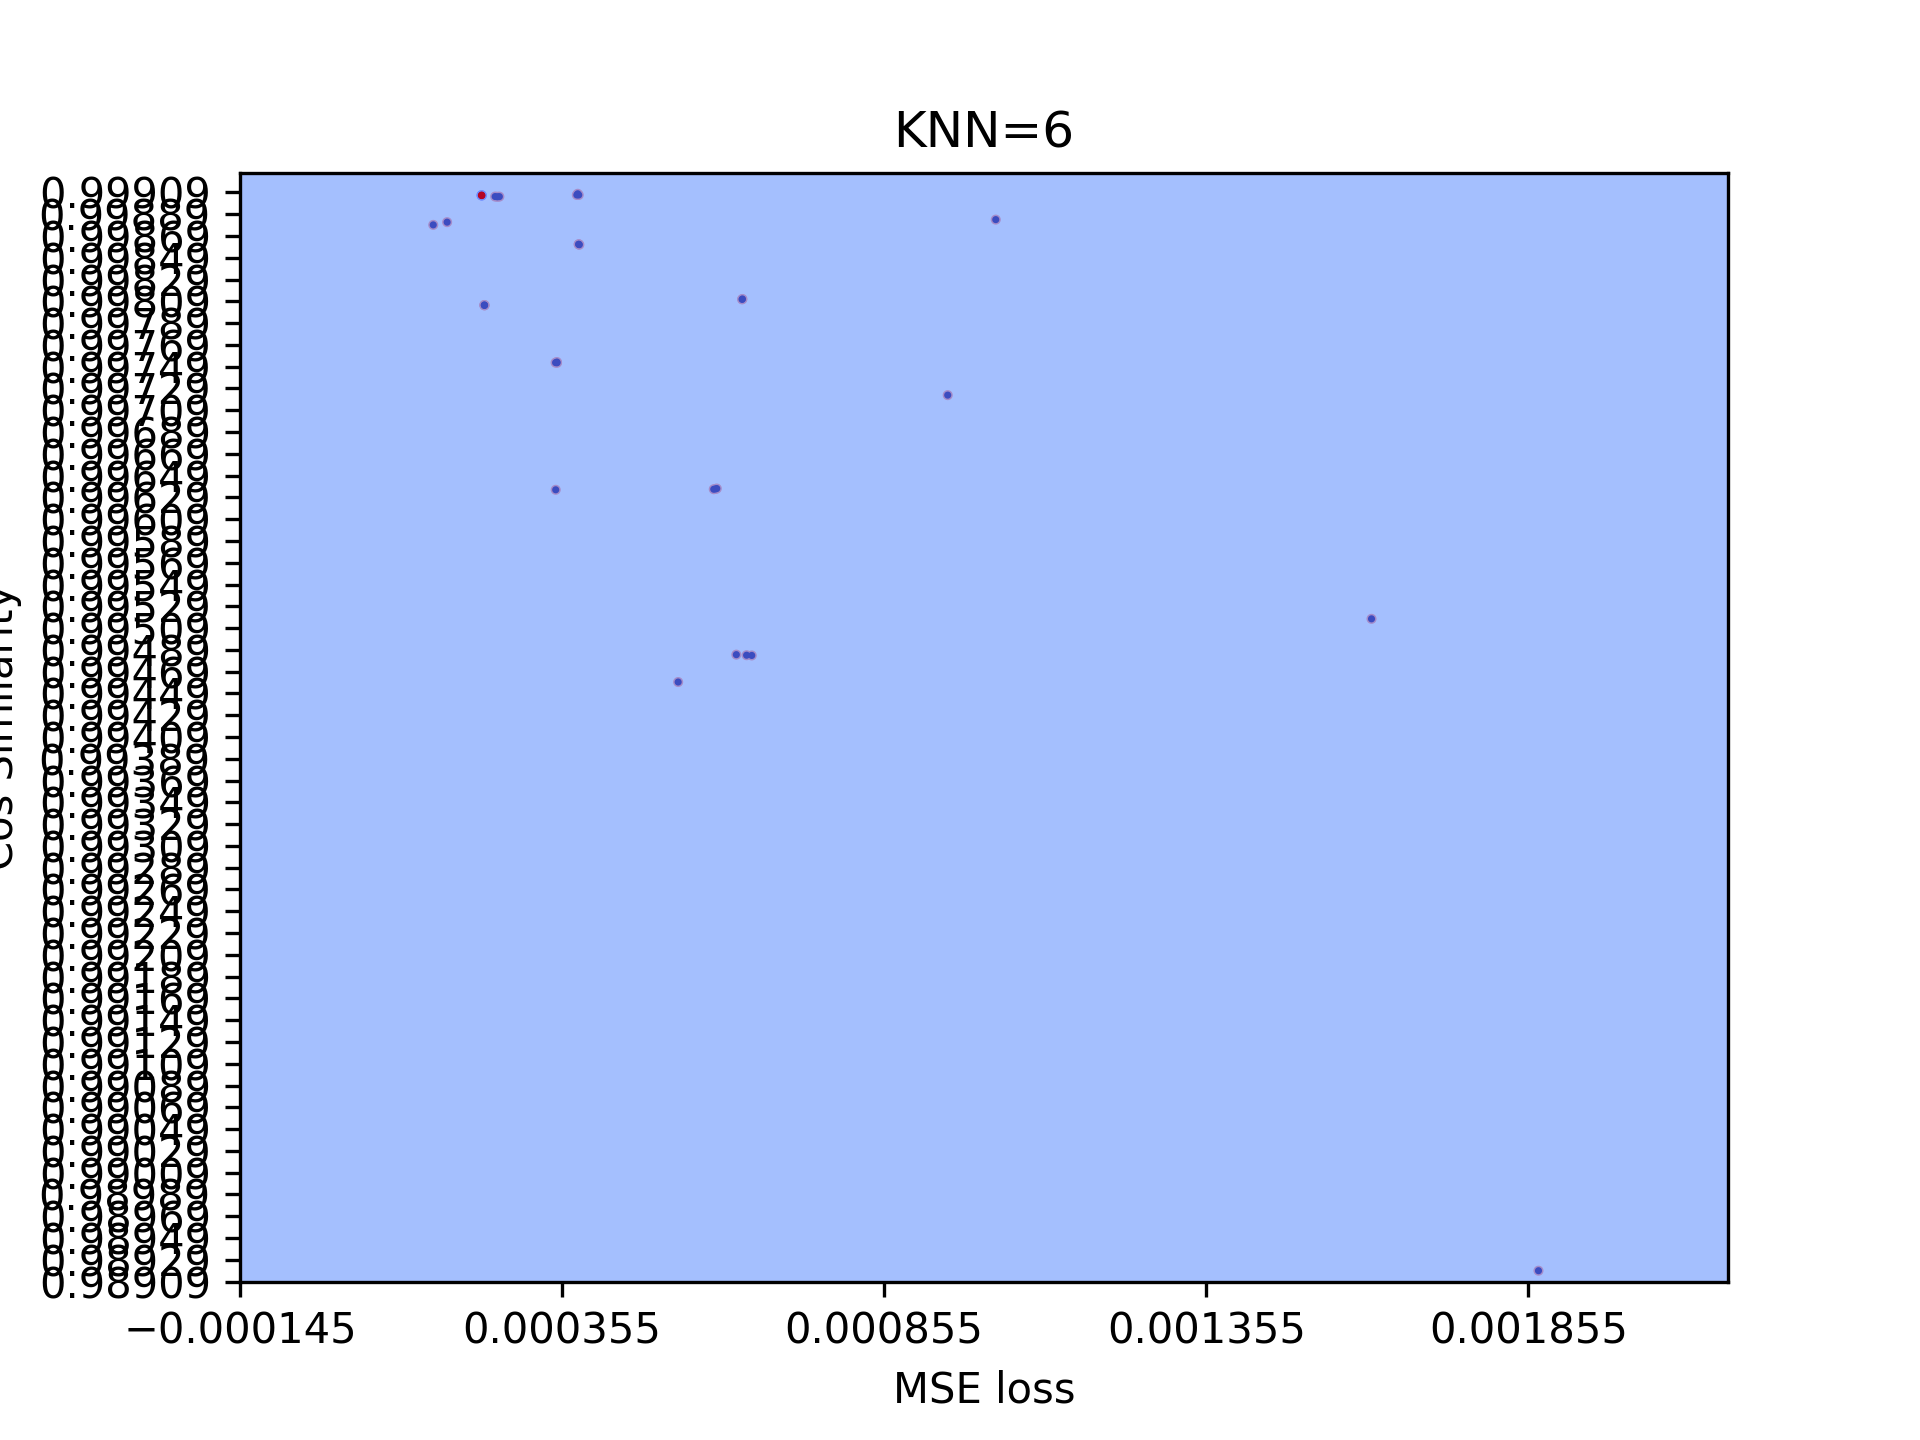
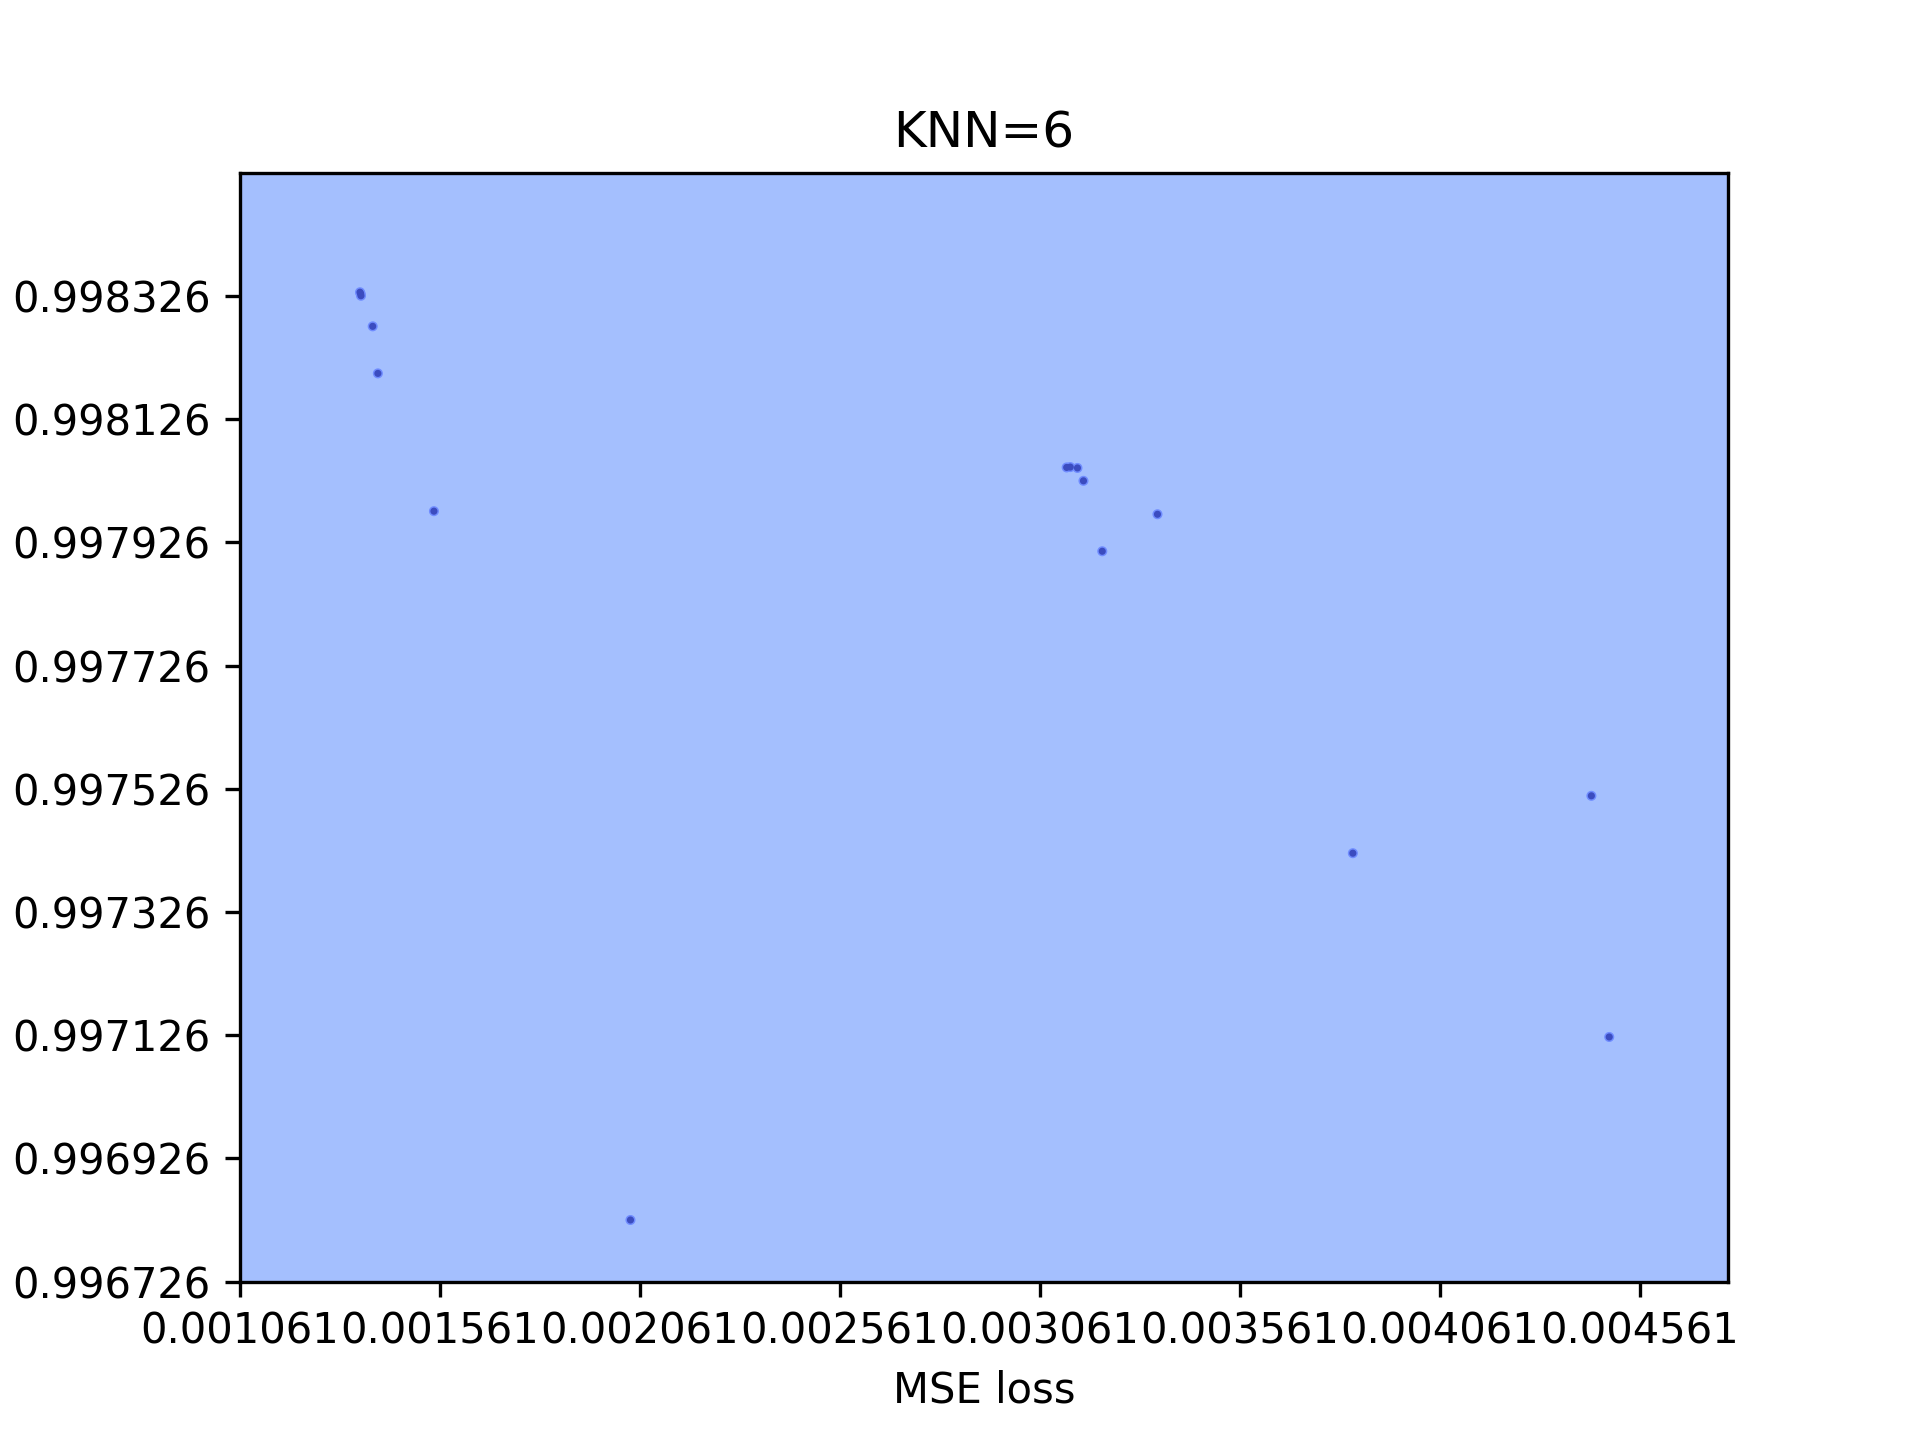
checkin works which were done on alienware laptop.

Changed region(s): [[0.0, 0.125, 0.9062, 0.9375]]

diff --git a/CNN.py b/CNN.py
@@ -20,22 +20,27 @@ from data_preprocessor import *
 from pandas.core.frame import DataFrame
 
 from utility_functions import get_confusion_matrix, total_accuracy, precision_average, plot_roc
+from skimage.metrics import structural_similarity as ssim
 
 img_x = 141
 img_y = 110
 
 def MSE(input,output,label, images):
-    root_dir = "cnned/"
-    i_img_dir ="input/"
-    o_img_dir = "output/"
+    root_dir = "cnned\\"
+    i_img_dir ="input\\"
+    o_img_dir = "output\\"
     mse_list = list()
     cos_list = list()
     color = list()
     for l in label:
-        if l == 'comp':
+        if l == 'I0':
             color.append('b')
-        if l == 'uncomp':
+        if l == 'I1':
             color.append('r')
+        if l == 'I2':
+            color.append('g')
+        if l == 'I3':
+            color.append('y')
     for k in range(input.shape[0]):
         i = input[k]
         i = i.reshape(img_x,img_y)
@@ -51,21 +56,22 @@ def MSE(input,output,label, images):
         nor_o = normalize(o, norm='l2').flatten()
         res = np.array([[nor_i[i] * nor_o[i], nor_i[i] * nor_i[i], nor_o[i] * nor_o[i]] for i in range(len(nor_i))])
         temp = sum(res[:, 0]) / (np.sqrt(sum(res[:, 1])) * np.sqrt(sum(res[:, 2])))
-        mse = mean_squared_error(i,o)
+        mse = mean_squared_error(i , o)
+        #mse = ssim(np.array(i, np.uint8), np.array(o, np.uint8), win_size= 5, data_range=255)
         mse_list.append(mse)
         cos = 0.5 * temp + 0.5
         cos_list.append(cos)
-    df = {'MSE':mse_list,'CosSim':cos_list,'label':label,'color':color, 'image_mname':images}
+    df = {'MSE':mse_list,'CosSim':cos_list,'label':label,'color':color, 'image_name':images}
     data = DataFrame(df)
     colors = {'comp':'b','uncomp':'r'}
 
 
     fig1 = plt.figure()
     axes1 = fig1.add_subplot(1, 1, 1)
-    scatter1 = axes1.scatter(data['MSE'], data['CosSim'], c=data['color'],s=2)
-    axes1.set_title('Two indicator plot of test data')
-    axes1.set_xlabel('Loss')
-    axes1.set_ylabel('Similarity')
+    scatter1 = axes1.scatter(data['MSE']*10000, (data['CosSim']-0.99)*100, c=data['color'],s=2)
+    axes1.set_title('Two indicator plot of data')
+    axes1.set_xlabel('MSE')
+    axes1.set_ylabel('CosSimilarity')
     #axes1.legend(*scatter1.legend_elements(), loc="best", title="label")
     current_time = time.time()
     plt.savefig(str(current_time)+'result.png')
@@ -79,7 +85,8 @@ def load_data(root_path):
     label = list()
     DataMat = list()
     image_list = list()
-    dataset_path = root_path+ '/comp'
+    #dataset_path = root_path+ '/comp'
+    dataset_path = root_path+'/I0'
     file_list = listdir(dataset_path)
     m = len(file_list)
     for i in range(m):
@@ -94,9 +101,26 @@ def load_data(root_path):
         if array.min() == 0 and array.max() == 0:
             continue
         DataMat.append(array)
-        label.append("comp")
+        label.append("I0")
         image_list.append(file_name)
-    dataset_path = root_path+'/uncomp'
+    #dataset_path = root_path+'/uncomp'
+    # dataset_path = root_path + '/I1'
+    #
+    # file_list = listdir(dataset_path)
+    # m = len(file_list)
+    # for i in range(m):
+    #     file_name = file_list[i]
+    #     fileStr = file_name.split('.')[0]
+    #     if fileStr == '':
+    #         continue
+    #     #inverse_LowPass = fft_Gaussian_LowPass_filer(dataset_path, file_name)
+    #     #array = inverse_LowPass.reshape(img_x, img_y)
+    #     inverse_csf = csf_filter(dataset_path, file_name)
+    #     array = inverse_csf.reshape(img_x, img_y)
+    #     DataMat.append(array)
+    #     label.append("I1")
+    #     image_list.append(file_name)
+    dataset_path = root_path + '/I2'
     file_list = listdir(dataset_path)
     m = len(file_list)
     for i in range(m):
@@ -104,18 +128,31 @@ def load_data(root_path):
         fileStr = file_name.split('.')[0]
         if fileStr == '':
             continue
-        #inverse_LowPass = fft_Gaussian_LowPass_filer(dataset_path, file_name)
-        #array = inverse_LowPass.reshape(img_x, img_y)
         inverse_csf = csf_filter(dataset_path, file_name)
         array = inverse_csf.reshape(img_x, img_y)
         DataMat.append(array)
-        label.append("uncomp")
+        label.append("I2")
         image_list.append(file_name)
+
+    dataset_path = root_path + '/I3'
+    file_list = listdir(dataset_path)
+    m = len(file_list)
+    for i in range(m):
+        file_name = file_list[i]
+        fileStr = file_name.split('.')[0]
+        if fileStr == '':
+            continue
+        inverse_csf = csf_filter(dataset_path, file_name)
+        array = inverse_csf.reshape(img_x, img_y)
+        DataMat.append(array)
+        label.append("I3")
+        image_list.append(file_name)
+
     DataArray = np.array(DataMat)
     DataArray = DataArray.reshape(DataArray.shape[0], img_x, img_y, 1)
     DataArray = DataArray.astype('float32')
-    #DataArray /= 255
-    return DataArray,label, image_list
+    DataArray /= 255
+    return DataArray, label, image_list
 
 def find_decision_boundray(mse_data_lst, cos_data_lst, label):
     df = {'MSE':mse_data_lst,'CosSim':cos_data_lst}
@@ -124,9 +161,11 @@ def find_decision_boundray(mse_data_lst, cos_data_lst, label):
     X = data_array
     label_id = []
     for item in label:
-        if item == 'comp':
+        if item == 'I1':
             label_id.append(1)
-        elif item == 'uncomp':
+        elif item == 'I2':
+            label_id.append(2)
+        elif item == 'I0':
             label_id.append(0)
 
     y = np.array(label_id, np.int)
@@ -238,12 +277,11 @@ def Autoncoder(x_train,label, images):
     return mse_data_lst, cos_data_lst
 
 def main():
-    x_train,label, image_lst= load_data("./processed_data")
+    x_train,label, image_lst= load_data("./csf_filtered")
+    #x_train,label, image_lst= load_data("./processed_data")
     mse_data_lst, cos_data_lst = Autoncoder(x_train,label, image_lst)
-    clf = find_decision_boundray(mse_data_lst, cos_data_lst, label)
-    #x_test,test_label, test_image_lst= load_data("./testset")
-    #test_mse_data_lst, test_cos_data_lst = Autoncoder(x_test,test_label, test_image_lst)
-    run_classifier(clf,  mse_data_lst, cos_data_lst, label)
+    #clf = find_decision_boundray(mse_data_lst, cos_data_lst, label)
+    #run_classifier(clf,  mse_data_lst, cos_data_lst, label)
 
 
 if __name__ == '__main__':

diff --git a/img_perprocessor.m b/img_perprocessor.m
@@ -1,28 +1,28 @@
 clear all;
 close all;
 
-%filelst = dir(fullfile('Data/LuminanceData', '*.csv'))
-filelst = dir(fullfile('testset', '*.jpeg'))
+filelst = dir(fullfile('LuminanceData', '*.csv'))
+%filelst = dir(fullfile('testset', '*.jpeg'))
 for i = 1:length(filelst)
-    filename = "testset/" + filelst(i).name;
-    img_data = imread(filename);
+    filename = "LuminanceData\" + filelst(i).name;
+    img_data = csvread(filename);
     %img_data = rgb2gray(img_data);
     [row,col] = size(img_data);
     % Full contrast stretch 
-%     hist_equal_fcs_img = zeros(row,col);
-%     min_r = double(min(img_data(:)));
-%     max_r = double(max(img_data(:)));
-%     stretched = double(img_data-min_r) * double(255) / double(max_r-min_r);
-%     hist_equal_fcs_img = round(stretched);
-%     img_data = uint8(hist_equal_fcs_img);
+     hist_equal_fcs_img = zeros(row,col);
+     min_r = double(min(img_data(:)));
+     max_r = double(max(img_data(:)));
+     stretched = double(img_data-min_r) * double(255) / double(max_r-min_r);
+     hist_equal_fcs_img = round(stretched);
+     img_data = uint8(hist_equal_fcs_img);
     %figure(2);
     %imshow(img_data,[]);
-    %filename = "Data/Processed_data/" + filelst(i).name + ".jpeg"
-    %imwrite(img_data, filename);
+    filename = "processed_data/" + filelst(i).name + ".png"
+    imwrite(img_data, filename);
     res_img = uint8(CSFfilter(img_data));
     figure(3);
     imshow(res_img,[]);
-    filename = "csf_filtered/csfed_" + filelst(i).name;
+    filename = "csf_filtered\csfed_" + filelst(i).name + ".png";
     imwrite(res_img, filename);
     
 end
@@ -43,7 +43,7 @@ HH = row; LL = col;
 % viewing distance d1
 % HH = row/2; LL = col/2;
 % viewing distance d2
-%HH = row/4; LL = col/4; 
+HH = row/4; LL = col/4; 
 % viewing distance d3
 %HH = row/8; LL = col/8;
 u = LL*u; v = HH*v;

diff --git a/imageViwer.m b/imageViwer.m
@@ -1,11 +1,39 @@
 clear all;
 close all;
-filelst = dir(fullfile('processed_data/comp', '*.png'))
+%filelst = dir(fullfile('processed_data/I1', '*.png'))
 
-for i = 1:length(filelst)
-    filename = "processed_data/comp/" + filelst(i).name;
+%for i = 1:length(filelst)
+   % filename = "processed_data/comp/" + filelst(i).name;
+    filename = "cnned\input\" + "r_Pixel2_No4_240_comp_1_g.jpeg";
     i_img_data = imread(filename);
-    figure(i);
-    imshow(i_img_data,[]);
+    figure(1);
+    mesh(i_img_data);
+    filename = "cnned\output\" + "r_Pixel2_No4_240_comp_1_g.jpeg";
+    o_img_data = imread(filename);
+    figure(23);
+    mesh(o_img_data);
     
-end
+    K = [0.03 0.03];
+    window = ones(8);
+    L = 255;
+    [score , ssim_map] = ssim(i_img_data, o_img_data, K, window, L);
+    figure(3);
+    mesh(ssim_map);
+
+    filename = "cnned\input\" + "r_Pixel2_No4_128_comp_1_g.jpeg";
+    i_img_data = imread(filename);
+    figure(4);
+    mesh(i_img_data);
+    filename = "cnned\output\" + "r_Pixel2_No4_128_comp_1_g.jpeg";
+    o_img_data = imread(filename);
+    figure(5);
+    mesh(o_img_data);
+    
+    K = [0.03 0.03];
+    window = ones(8);
+    L = 255;
+    [score , ssim_map] = ssim(i_img_data, o_img_data, K, window, L);
+    figure(6);
+    mesh(ssim_map);
+    
+%end

diff --git a/img_viwer.m b/img_viwer.m
@@ -1,31 +1,13 @@
 clear all;
 close all;
-filelst = dir(fullfile('cnned/input', '*.png'))
-ssim_array = size(length(filelst));
-ssim_index = size(length(filelst));
+filelst = dir(fullfile('processed_data\I1', '*.png'));
 
 for i = 1:length(filelst)
-    filename = "cnned/input/" + filelst(i).name;
+    filename = "processed_data\I1\" + filelst(i).name;
     i_img_data = imread(filename);
-    i_img_data = imresize(i_img_data, [141, 110]);
-    filename = "cnned/output/" + filelst(i).name;
-    o_img_data = imread(filename);
-    o_img_data = imresize(o_img_data, [141, 110]);
-    figure(1);
-    mesh(i_img_data);
-    figure(2);
-    mesh(o_img_data);
 
-    K = [0.03 0.03];
-    window = ones(10);
-    L = 100;
-    [score , ssim_map] = ssim(i_img_data, o_img_data, K, window, L);
-    %figure(i);
-    imshow(ssim_map,[]);
-    ssim_array(i) = score; 
-    ssim_index(i) = i;
+    figure(i);
+    imshow(i_img_data,[]);
     
 end
 
-figure(4);
-plot(ssim_array);

diff --git a/data_preprocessor.py b/data_preprocessor.py
@@ -158,11 +158,13 @@ def csf_filter(dataset_path, file_name):
     #return img
     row = 141
     col = 110
+    row = img.shape[1]
+    col = img.shape[0]
     feq_0 = np.linspace(-1.0, 1.0, num=row, dtype=float )
     feq_1 = np.linspace(-1.0, 1.0, num=col, dtype=float)
     u, v = np.meshgrid(feq_0, feq_1)
-    #u = 0.125 * u
-    #v = 0.125 * v
+    u = 0.125 * u
+    v = 0.125 * v
     r = u**2+v**2
     r = np.sqrt(r)
     theta_g = np.exp(-(r/f_0)**2) - a * np.exp(-(r/f_1)**2);
@@ -173,6 +175,8 @@ def csf_filter(dataset_path, file_name):
     inverse_csf_filtered = np.fft.ifft2(csf_filtered)
     i = Image.fromarray(np.array(inverse_csf_filtered, np.uint8))
     i.save(output_file_path)
+    #csfed_img = cv2.imread(file_path, cv2.IMREAD_GRAYSCALE)
+    #inverse_csf_filtered = cv2.resize(csfed_img, dsize=(110, 141), interpolation=cv2.INTER_CUBIC)
     return inverse_csf_filtered
 
 
